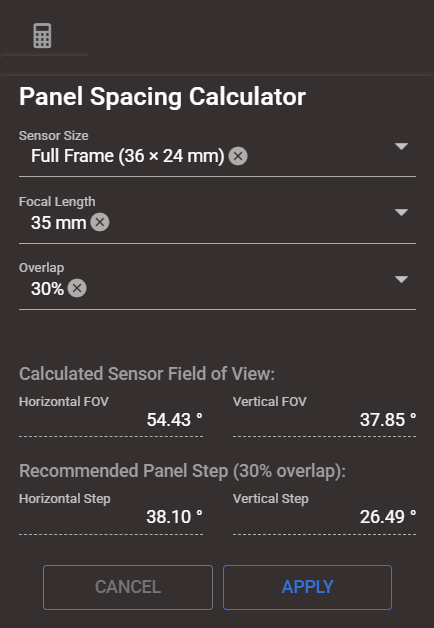
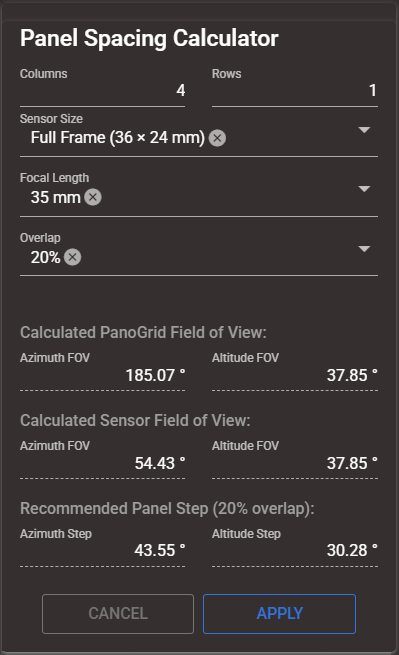
fix(docs): update pano grid calculator documentation

diff --git a/docs/pilot.md b/docs/pilot.md
@@ -1017,7 +1017,7 @@ Changes made in Alpaca Pilot immediately update the active panorama grid in the 
 - **① Columns `"cols":`**  Number of horizontal panels across the panorama. Range: **2–14**. 
 - **② Rows `"rows":`**  Number of vertical panels in the panorama. Range: **1–3**.
 
-- **③ Calc:** Panel Spacing Calculator used to calculate **Sensor Field of View** including recommended Horizontal and Vertical Step. See below.
+- **③ Calc:** Panel Spacing Calculator used to calculate **Sensor Field of View** including recommended Horizontal and Vertical Step. To capture the MW you will likely need a "Galactic Lon FOV" of at least 180 degrees. If you use a full-frame camera and a 35mm lens in landscape mode (wider along the MW spine), you can get by with just a 4 x 1 grid. See below.
 
 - **③ Swap:** Changes the spacing between panels for either a Landscape or Portrait orientation, by  swaping the `"hstep"` and `"vstep"` values. Landscape orientation will have a larger `"hstep"`, while Portrait orientation will have a larger `"vstep"`. This button only changes the spacing of the panels, you will need to use a lens collar to rotate your camera's sensor to match the orientation. 
 
@@ -1133,13 +1133,14 @@ The Panorama Grid is designed to be simple, with the minimum number of parameter
 
 A calculator is provided calculate these properties:
 * Click on the Calculator icon on the Panorama Settings Card
+* Adjust the number of Rows and Columns.
 * Select your sensor size. 
    > You can also enter a custom sensor size by typing `ww x hh` and pressing *Enter*.  For example typing `16 x 9` and pressing *Enter*, sets a 16 x 9 mm sesnor size.
 * Select your lens focal length in mm.
 * Select the percentage of overlap between each panel
    > You can also enter a custom focal length or overlap value by typing a number and pressing *Enter*. For example, typing `16` and pressing *Enter* in the Focal Length field will set the focal length to 16 mm.
-* The calculator with determine the Sensors Field of View in Degrees as well as the Recommended Panel Step, given your desired overlap.
-* Click `Apply` to set the Horizontal Step and Vertical Step for the Panorama Grid. This will also store the Sensor Size, Focal Length and Overlap for next time you use the calculator.
+* The calculator will determine the Field of View of the Sensor and Full PanoGrid in Degrees, as well as the Recommended Panel Step, given your desired overlap.
+* Click `Apply` to set the Rows, Columns, Horizontal Step and Vertical Step for the Panorama Grid. This will also store the Sensor Size, Focal Length and Overlap for next time you use the calculator.
 
 ![Astronomy Tools](./images/pilot-panocalc.png)
 
